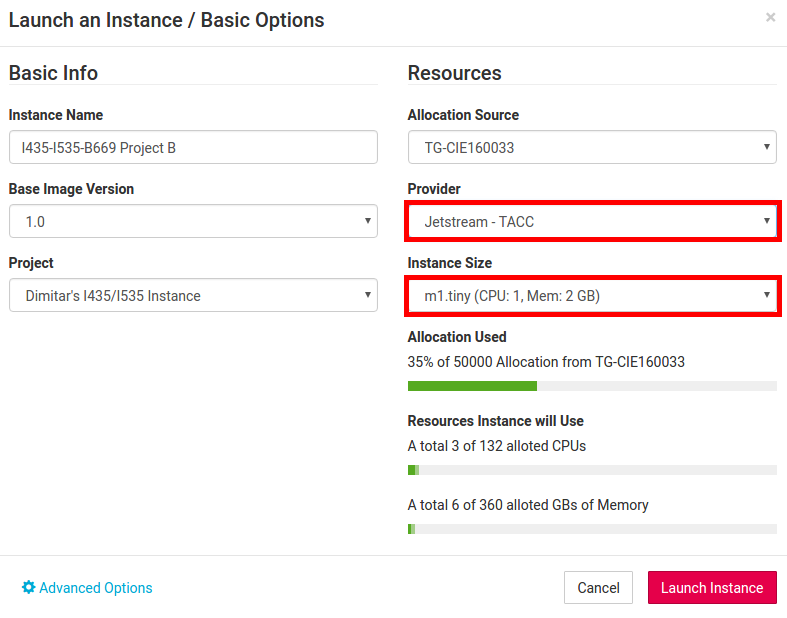
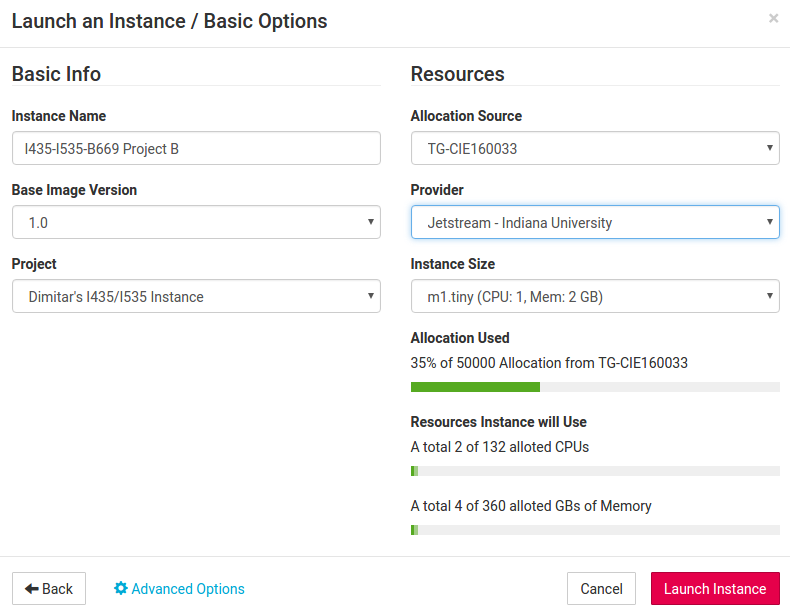
changing provider instructions to not favor TACC since it's possible there is an issue with it

diff --git a/README.md b/README.md
@@ -55,7 +55,7 @@ There is a new image for this project that comes pre-loaded with necessary softw
 
 ![Project image on Jetstream.](images/jetstream-image.png "Project image on Jetstream.")
 
-When you create the new instance, please use the **Jetstream - TACC** provider and the **tiny** instance size to avoid any hanging issues or needlessly spending our allocation:
+When you create the new instance, please use the **tiny** instance size to avoid needlessly spending our allocation. In addition, try both the **Jetstream - TACC** and **Jetstream - Indiana University** providers in case you run into any issues starting the instance:
 
 ![Creating a new instance.](images/create-instance.png "Creating a new instance.")
 
